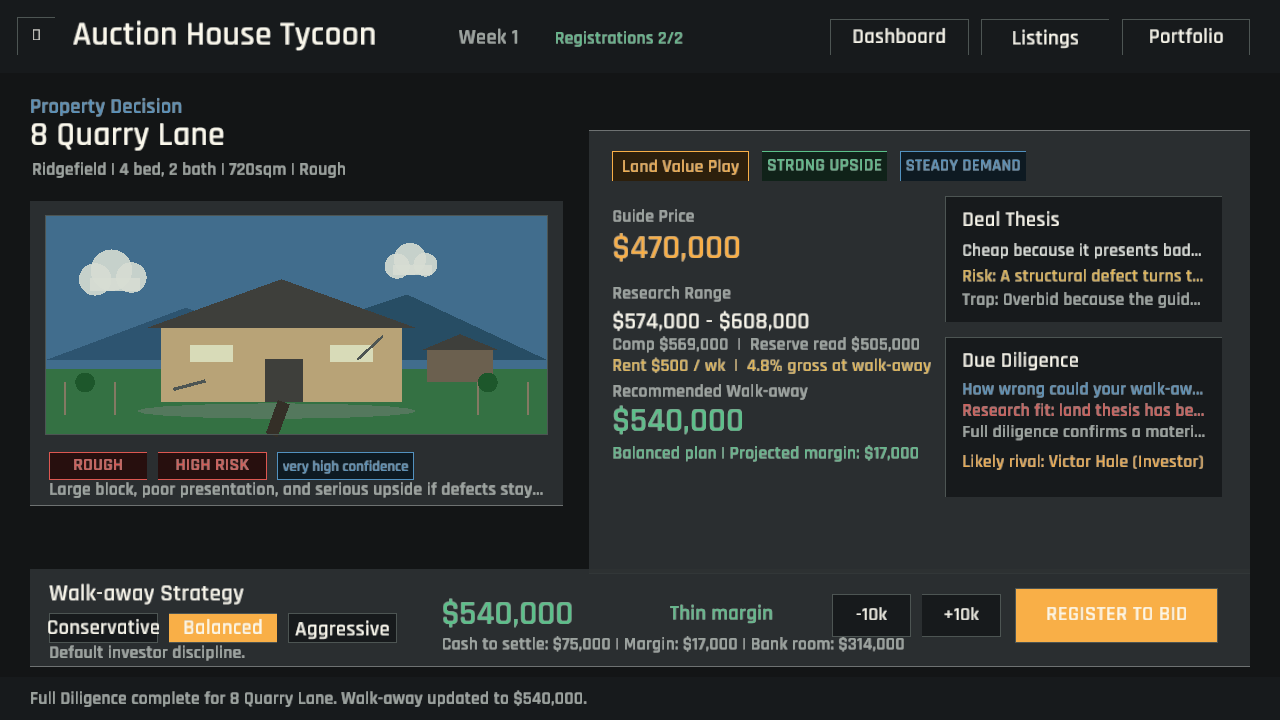
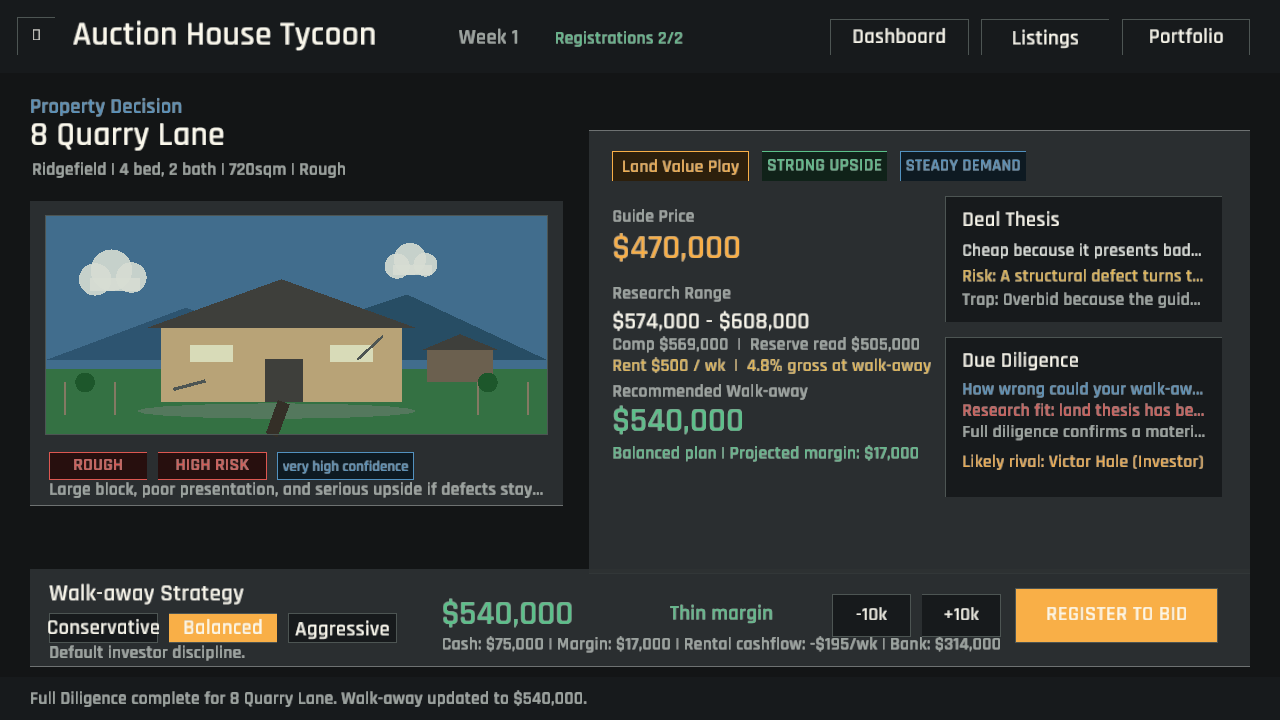
Every raised ceiling now carries its weekly price (pre-auction rental underwriting)
Gross yield alone hid the debt and ownership burden that turns a plausible rental into a cashflow drain. The walk-away panel now recalculates rent less management, property outgoings, and loan interest at the player's exact ceiling, updating as they move the number. Shared underwriting math and regression coverage keep the pre-auction forecast aligned with weekly portfolio pressure.

Changed region(s): [[0.375, 0.8861, 0.7812, 0.9167]]

diff --git a/src/sim/finance.rs b/src/sim/finance.rs
@@ -1,5 +1,6 @@
-use crate::model::{MarketEvent, Player, PropertyId};
-use crate::sim::rental::portfolio_rental_snapshot;
+use crate::model::{MarketEvent, Player, Property, PropertyId};
+use crate::sim::campaign::weekly_debt_interest;
+use crate::sim::rental::{portfolio_rental_snapshot, rental_management_cost, weekly_rent_for};
 use crate::sim::valuation::{
     cash_needed_to_settle, current_value, deposit, net_worth, round_down_to_increment,
 };
@@ -36,6 +37,33 @@ pub struct FinanceSnapshot {
     pub cash_after_settle: i64,
     pub can_buy: bool,
     pub stress: FinanceStress,
+}
+
+#[derive(Clone, Copy, Debug, PartialEq, Eq)]
+pub struct RentalUnderwrite {
+    pub gross_rent: i64,
+    pub management: i64,
+    pub property_cost: i64,
+    pub loan_interest: i64,
+    pub net_cashflow: i64,
+}
+
+pub fn rental_underwrite(
+    property: &Property,
+    market: &MarketEvent,
+    purchase_price: i64,
+) -> RentalUnderwrite {
+    let gross_rent = weekly_rent_for(property, market);
+    let management = rental_management_cost(gross_rent);
+    let property_cost = property.holding_cost_per_week;
+    let loan_interest = weekly_debt_interest(purchase_price - deposit(purchase_price), market);
+    RentalUnderwrite {
+        gross_rent,
+        management,
+        property_cost,
+        loan_interest,
+        net_cashflow: gross_rent - management - property_cost - loan_interest,
+    }
 }
 
 pub fn borrowing_limit(player: &Player, market: &MarketEvent) -> i64 {

diff --git a/src/screens/property_detail.rs b/src/screens/property_detail.rs
@@ -1,7 +1,7 @@
 use crate::app::App;
 use crate::model::{Property, ResearchLevel, WalkawayStyle};
 use crate::screens::Screen;
-use crate::sim::finance::finance_snapshot;
+use crate::sim::finance::{finance_snapshot, rental_underwrite};
 use crate::sim::rental::weekly_rent_for;
 use crate::sim::research::{
     comparable_sale_value, due_diligence_note, estimate_reserve, recommended_walkaway,
@@ -316,6 +316,7 @@ fn draw_detail_summary(app: &App, rect: Rect, property: &Property, research_leve
 fn draw_walkaway_panel(app: &mut App, rect: Rect, property: &Property) {
     let margin = projected_purchase_margin(property, app.walkaway_price, app.market());
     let finance = finance_snapshot(&app.player, app.market(), app.walkaway_price);
+    let rental = rental_underwrite(property, app.market(), app.walkaway_price);
     label(
         "Walk-away Strategy",
         rect.x + 18.0,
@@ -383,9 +384,10 @@ fn draw_walkaway_panel(app: &mut App, rect: Rect, property: &Property) {
     );
     label(
         &format!(
-            "Cash to settle: {} | Margin: {} | Bank room: {}",
+            "Cash: {} | Margin: {} | Rental cashflow: {}/wk | Bank: {}",
             format_money(cash_needed_to_settle(app.walkaway_price)),
             format_money(margin),
+            format_money(rental.net_cashflow),
             format_money(finance.headroom_after)
         ),
         rect.x + 386.0,

diff --git a/src/sim/rental.rs b/src/sim/rental.rs
@@ -91,7 +91,7 @@ pub fn portfolio_rental_snapshot(player: &Player) -> RentalSnapshot {
         .filter(|owned| owned.is_leased)
         .fold(RentalSnapshot::default(), |mut total, owned| {
             let collected_rent = effective_weekly_rent(owned);
-            let operating_cost = rental_operating_cost(collected_rent);
+            let operating_cost = rental_management_cost(collected_rent);
             total.gross_rent += collected_rent;
             total.operating_cost += operating_cost;
             total.net_income += owned.weekly_rent - operating_cost;
@@ -104,7 +104,7 @@ pub fn apply_rental_income(player: &mut Player) -> RentalSnapshot {
     for owned in &mut player.properties {
         if owned.is_leased {
             let collected_rent = effective_weekly_rent(owned);
-            let operating_cost = rental_operating_cost(collected_rent);
+            let operating_cost = rental_management_cost(collected_rent);
             owned.rent_received += collected_rent;
             owned.operating_spend += operating_cost;
         }
@@ -112,7 +112,7 @@ pub fn apply_rental_income(player: &mut Player) -> RentalSnapshot {
     snapshot
 }
 
-fn rental_operating_cost(weekly_rent: i64) -> i64 {
+pub fn rental_management_cost(weekly_rent: i64) -> i64 {
     round_to_ten(weekly_rent as f32 * 0.12)
 }
 

diff --git a/src/sim/finance/tests.rs b/src/sim/finance/tests.rs
@@ -30,6 +30,24 @@ fn finance_snapshot_blocks_deals_above_limit() {
 }
 
 #[test]
+fn rental_underwrite_prices_the_debt_and_ownership_cost_before_bidding() {
+    let data = GameData::load();
+    let property = Property::from_template(&data.properties[0]);
+    let market = &data.market_events[0];
+
+    let at_guide = rental_underwrite(&property, market, property.guide_price);
+    let after_chasing = rental_underwrite(&property, market, property.guide_price + 100_000);
+
+    assert_eq!(at_guide.property_cost, property.holding_cost_per_week);
+    assert_eq!(
+        at_guide.net_cashflow,
+        at_guide.gross_rent - at_guide.management - at_guide.property_cost - at_guide.loan_interest
+    );
+    assert!(after_chasing.loan_interest >= at_guide.loan_interest);
+    assert!(after_chasing.net_cashflow <= at_guide.net_cashflow);
+}
+
+#[test]
 fn principal_payment_reduces_cash_and_both_debt_ledgers() {
     let data = GameData::load();
     let market = &data.market_events[0];

diff --git a/GAME_DESIGN.md b/GAME_DESIGN.md
@@ -29,6 +29,7 @@ The three requirements prevent a single degenerate strategy. Cheap but poor asse
 - The guide is advertising, not valuation.
 - Research buys narrower uncertainty, not a guaranteed answer.
 - A walk-away is a commitment device, not a hard lock.
+- The live walk-away panel underwrites rental cashflow at that exact price after management, property outgoings, and loan interest; raising the ceiling can turn a sound rental into a weekly loss.
 - The vendor's true reserve stays hidden; research provides an estimate and the auctioneer announces when bidding crosses the real line.
 - The room opens in $10,000 rises. Crossing reserve triggers the on-market call and the auctioneer tightens every later raise to $5,000, making late discipline more granular.
 - One declared vendor bid may move the auction below reserve, but can never buy the property or put it on the market.

diff --git a/README.md b/README.md
@@ -28,6 +28,7 @@ Winning an auction is not automatically good. The real challenge is knowing what
 - Renovate, fund a one-week rental campaign, place or end tenancies, collect rent, handle scheduled maintenance, hold, or sell purchased properties.
 - Track every property, cash, debt, rent, weekly cashflow, fees, repairs, and net worth.
 - Read each home's equity, loan-to-value ratio, and market-adjusted annual loan rate before deciding whether to hold, pay down, refinance, or sell.
+- Underwrite the rent at your chosen walk-away price, including management, property outgoings, and loan interest, before registering to bid.
 
 ## Goal
 
